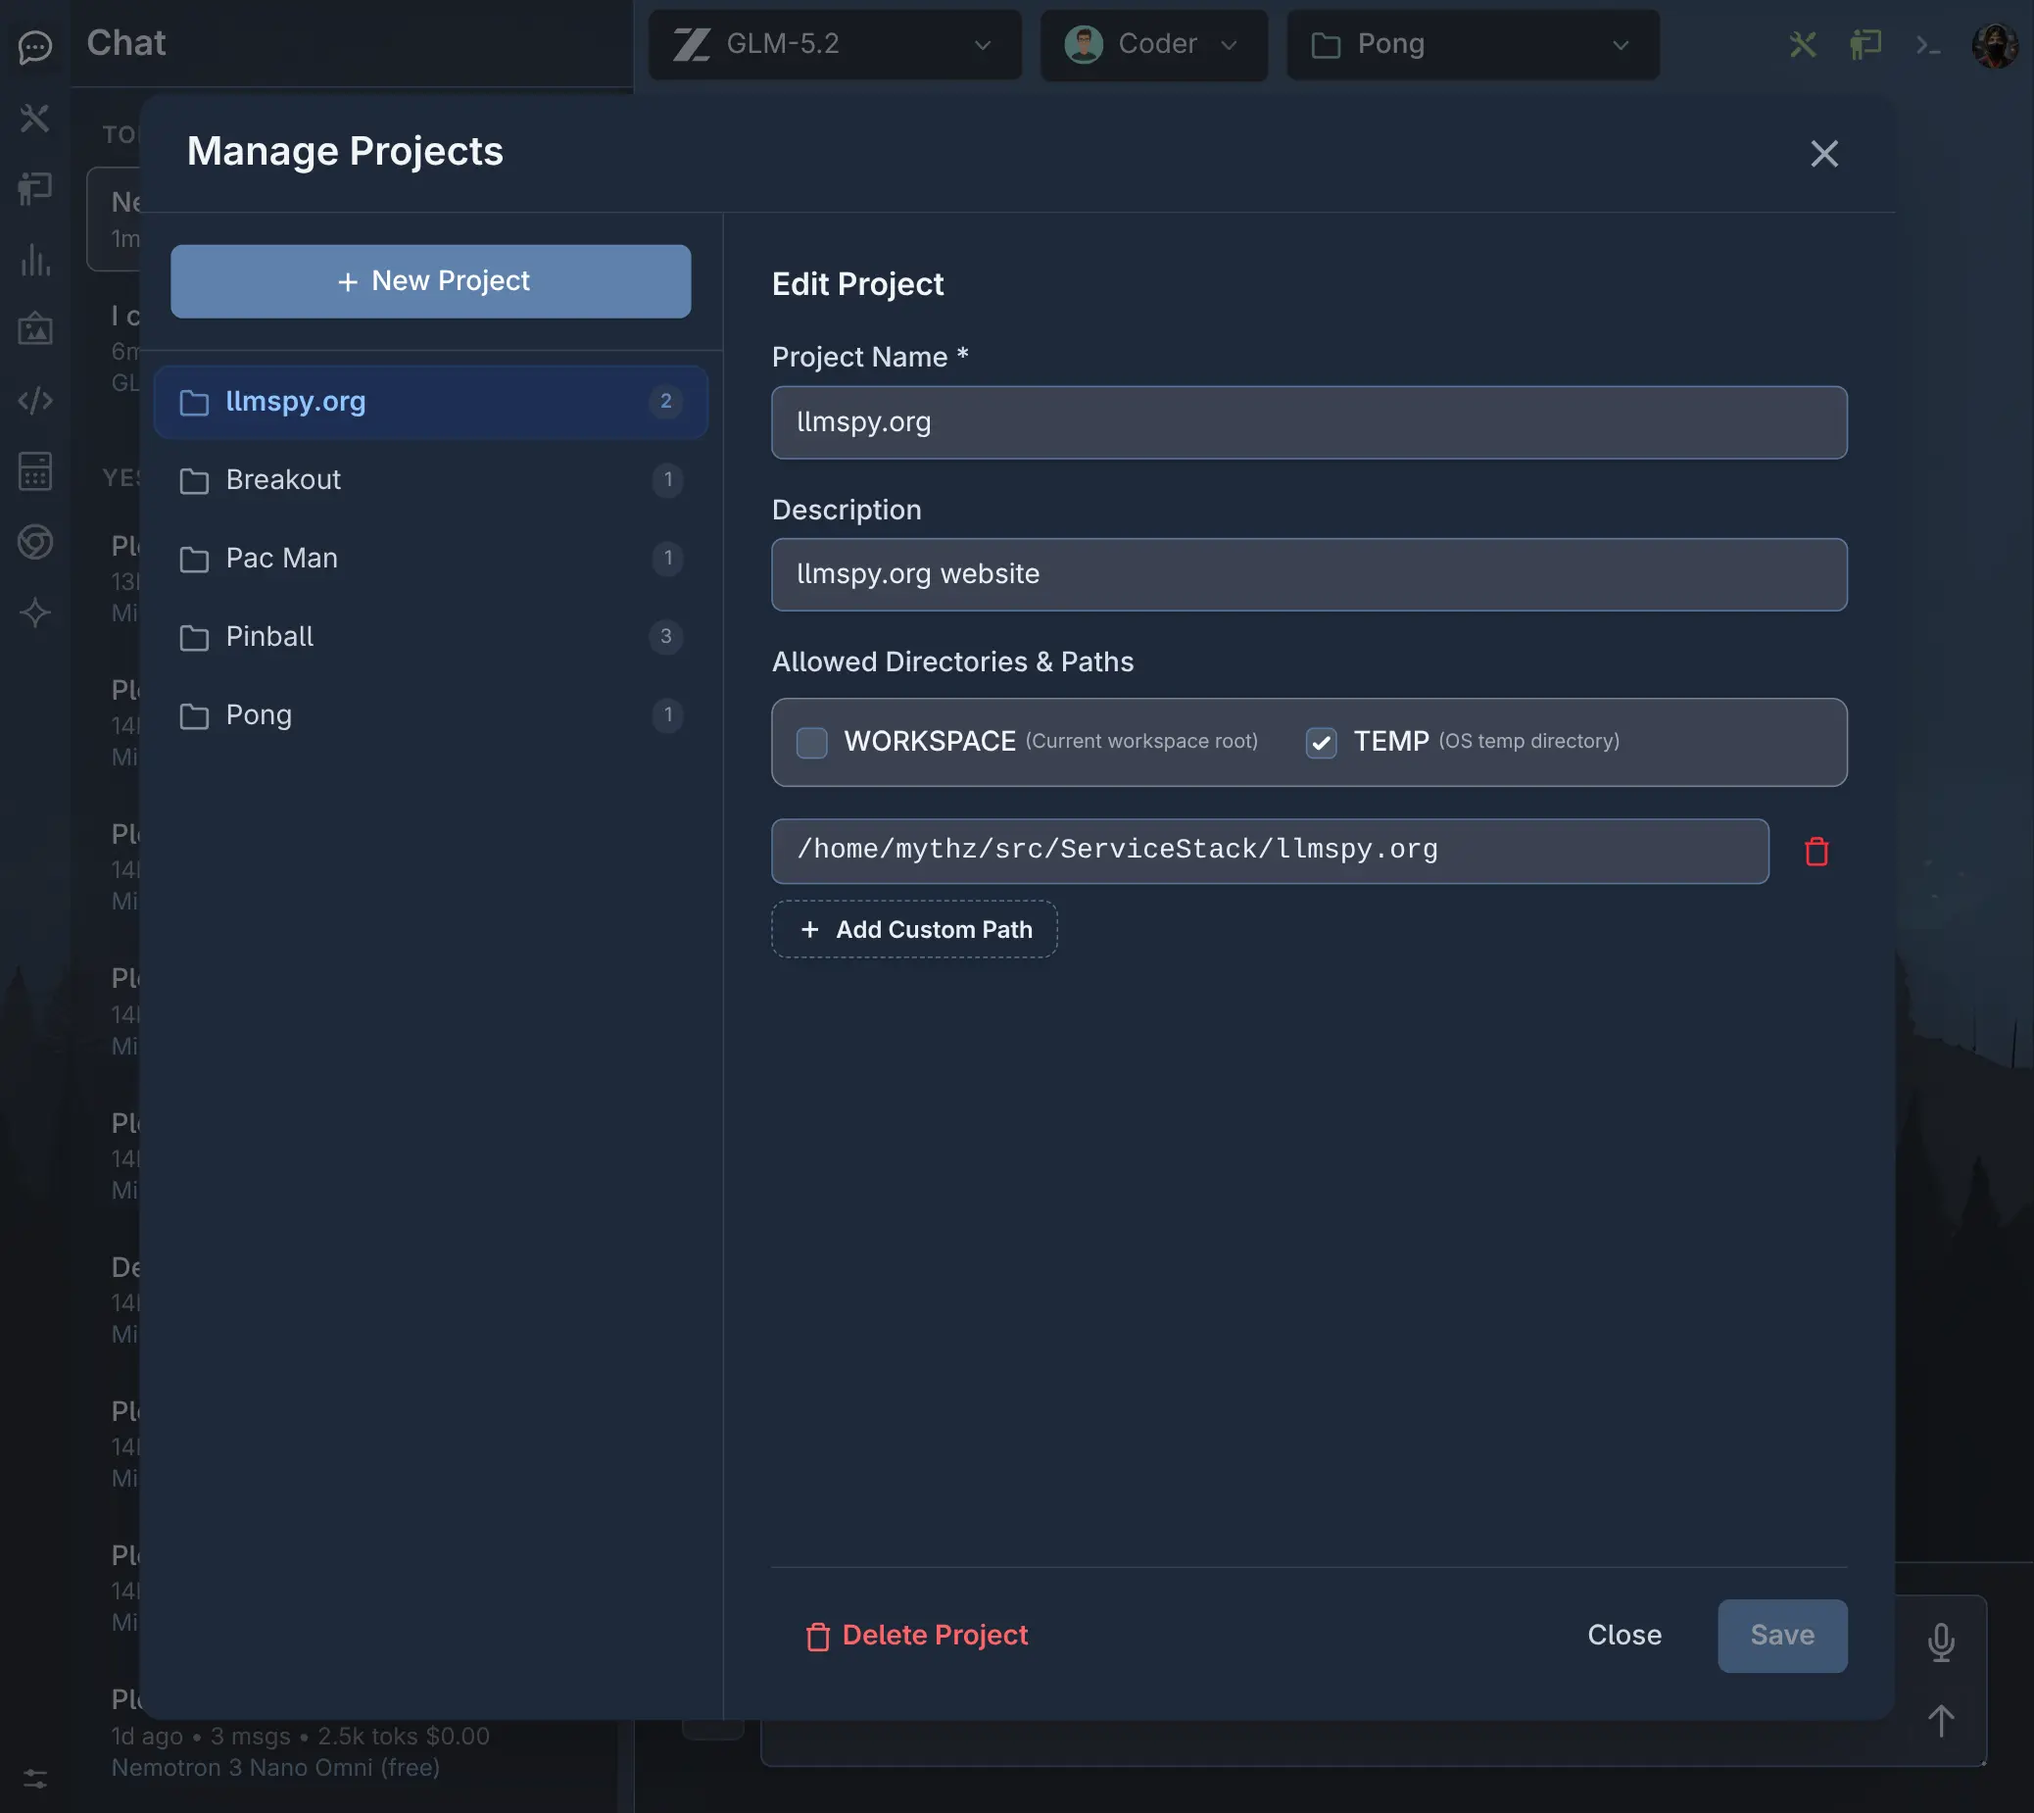
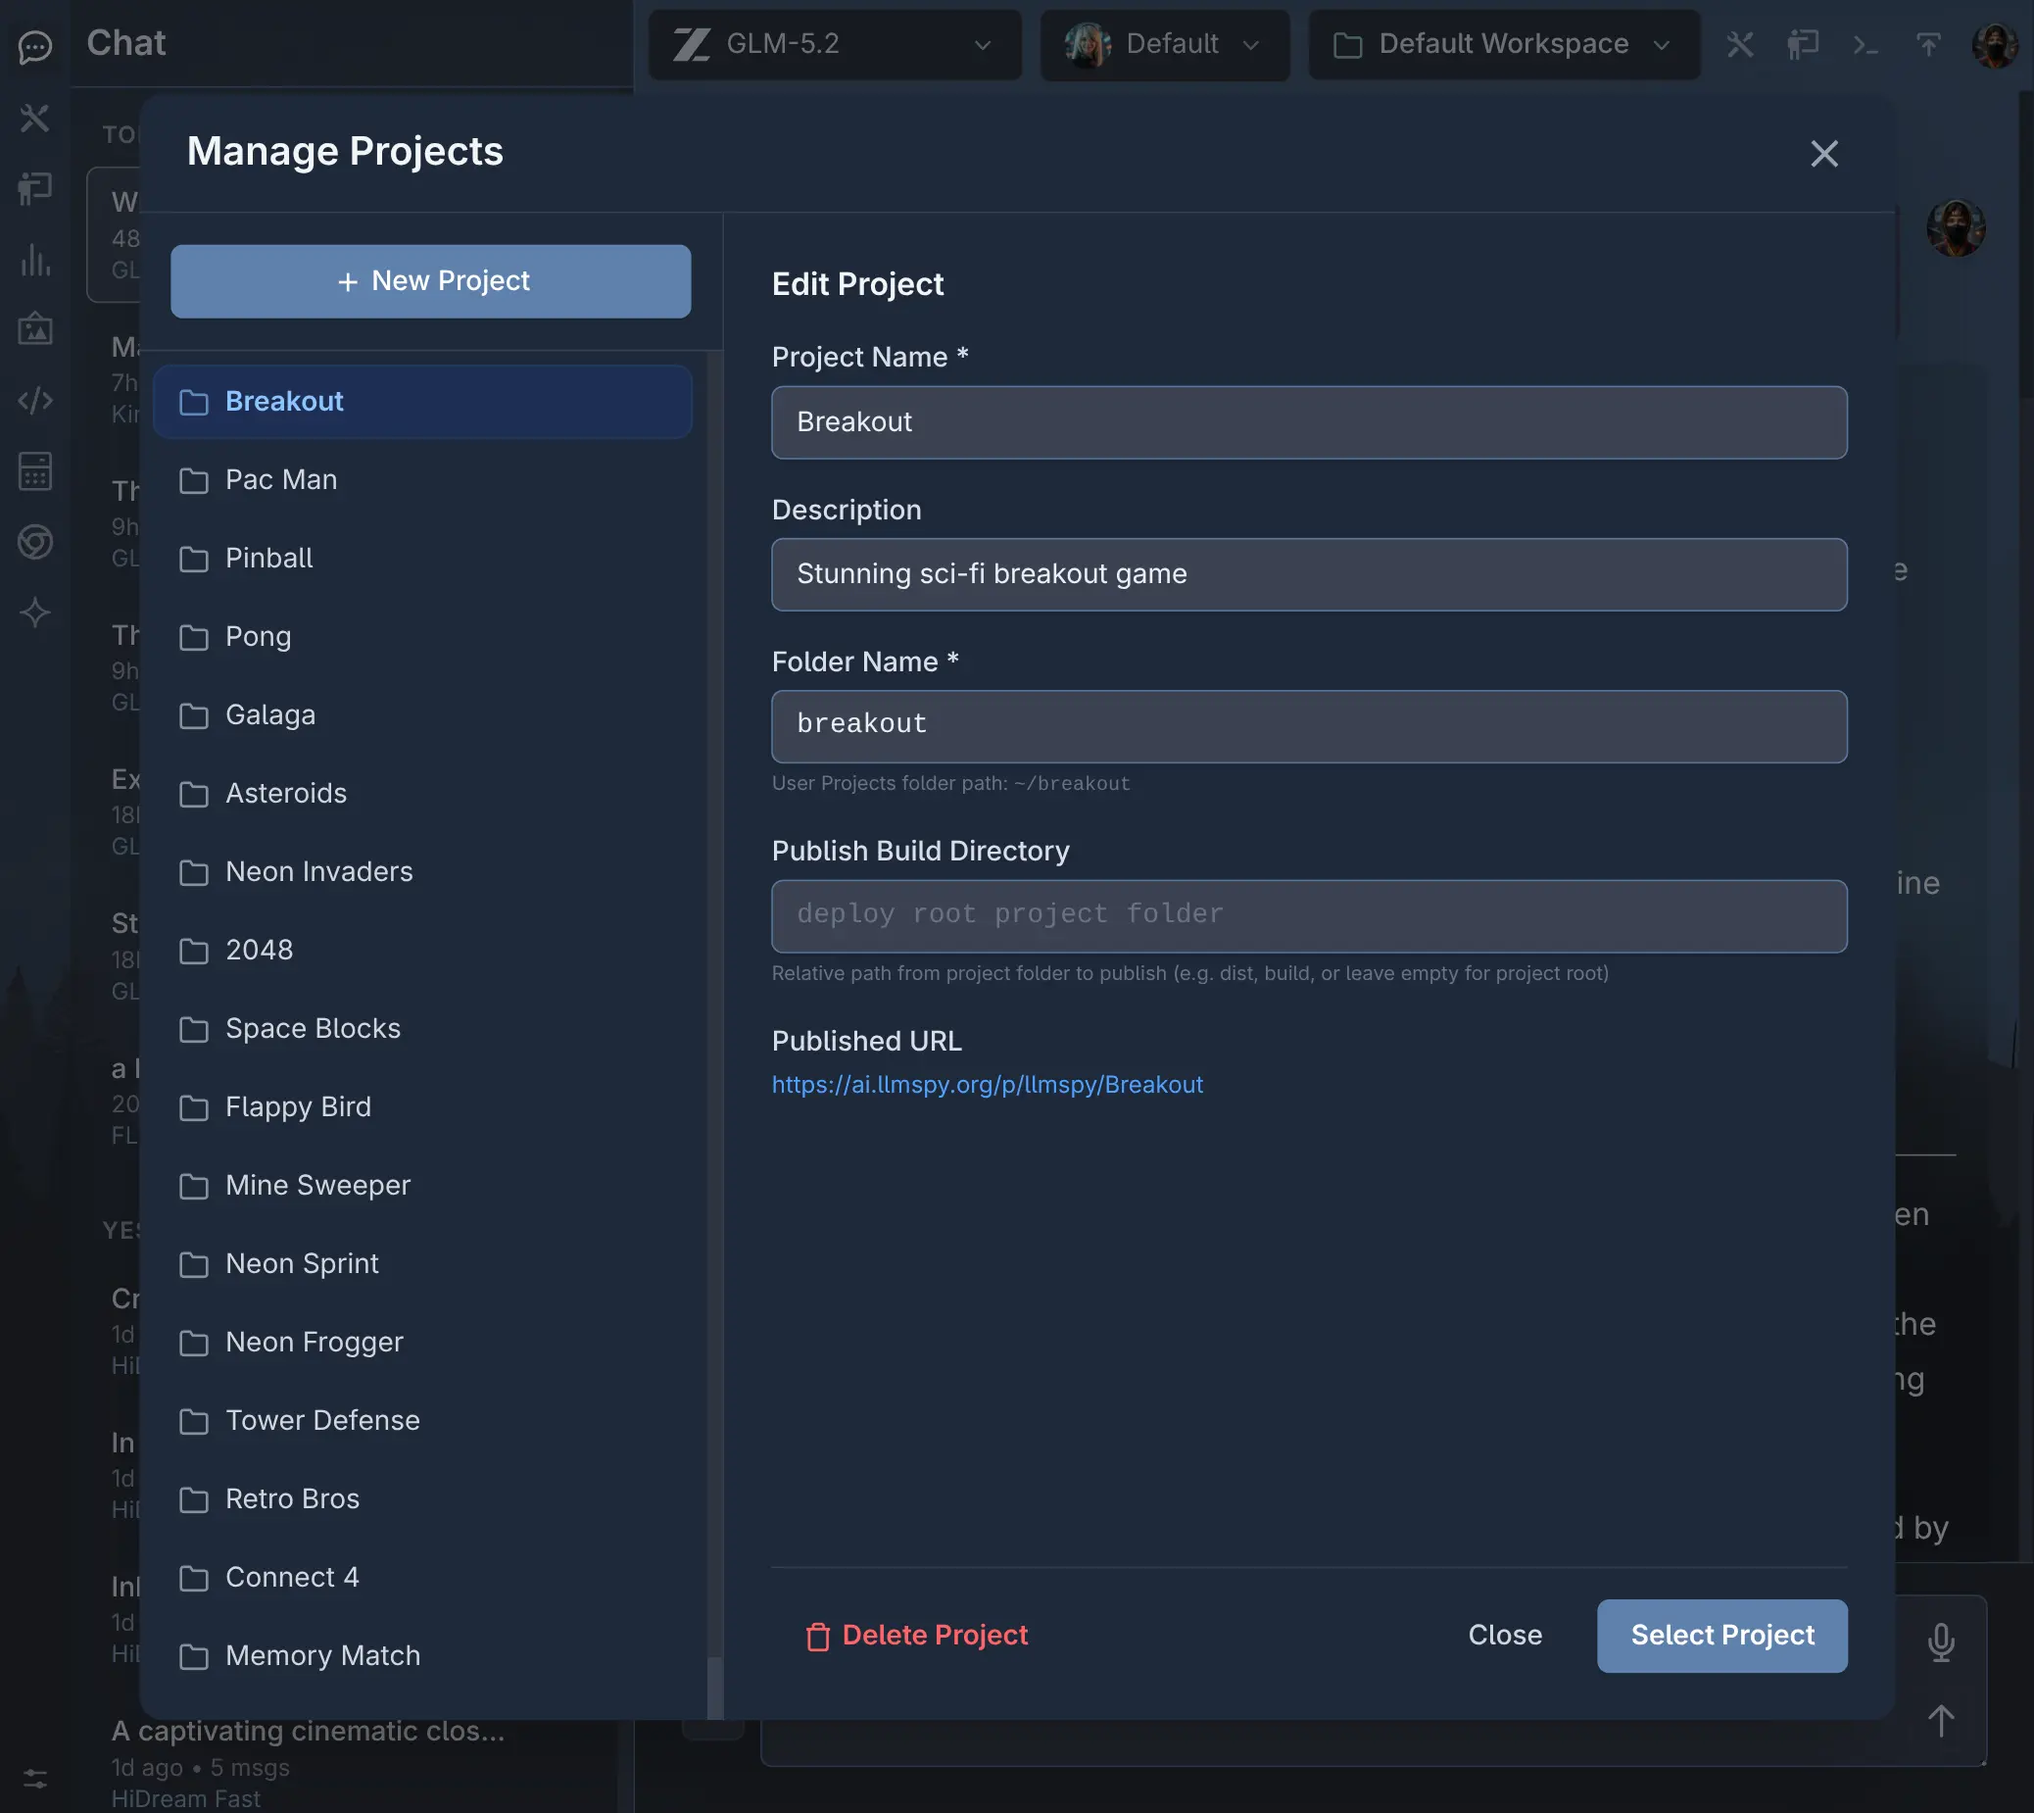
Update changes

diff --git a/app/(home)/page.tsx b/app/(home)/page.tsx
@@ -818,8 +818,8 @@ export default function HomePage() {
             </div>
             <div className="rounded-xl overflow-hidden shadow-xl border border-slate-200 dark:border-slate-700 dark:bg-white">
               <LightboxImage
-                src="/img/profiles/galaga-menu.webp"
-                alt="Sci-Fi Space Game — Main Menu built by Coder agent"
+                src="/img/publish/games/2048_2076x1850.webp"
+                alt="2048 Game — built by Coder agent"
                 width={400}
                 height={300}
                 className="w-full h-auto"
@@ -827,8 +827,8 @@ export default function HomePage() {
             </div>
             <div className="rounded-xl overflow-hidden shadow-xl border border-slate-200 dark:border-slate-700 dark:bg-white">
               <LightboxImage
-                src="/img/profiles/galaga-game.webp"
-                alt="Sci-Fi Space Game — Gameplay built by Coder agent"
+                src="/img/publish/games/Breakout_2076x1850.webp"
+                alt="Breakout — Gameplay built by Coder agent"
                 width={400}
                 height={300}
                 className="w-full h-auto"
